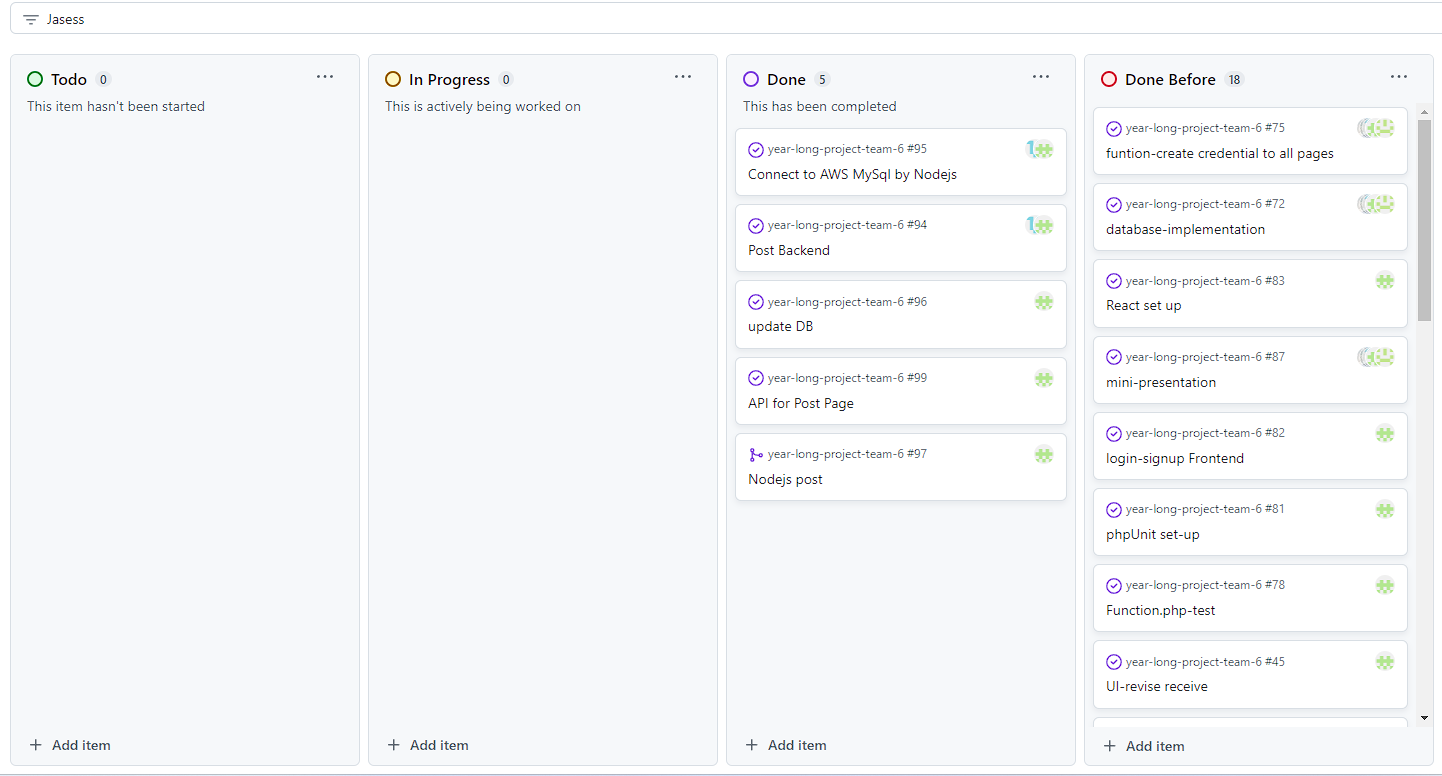
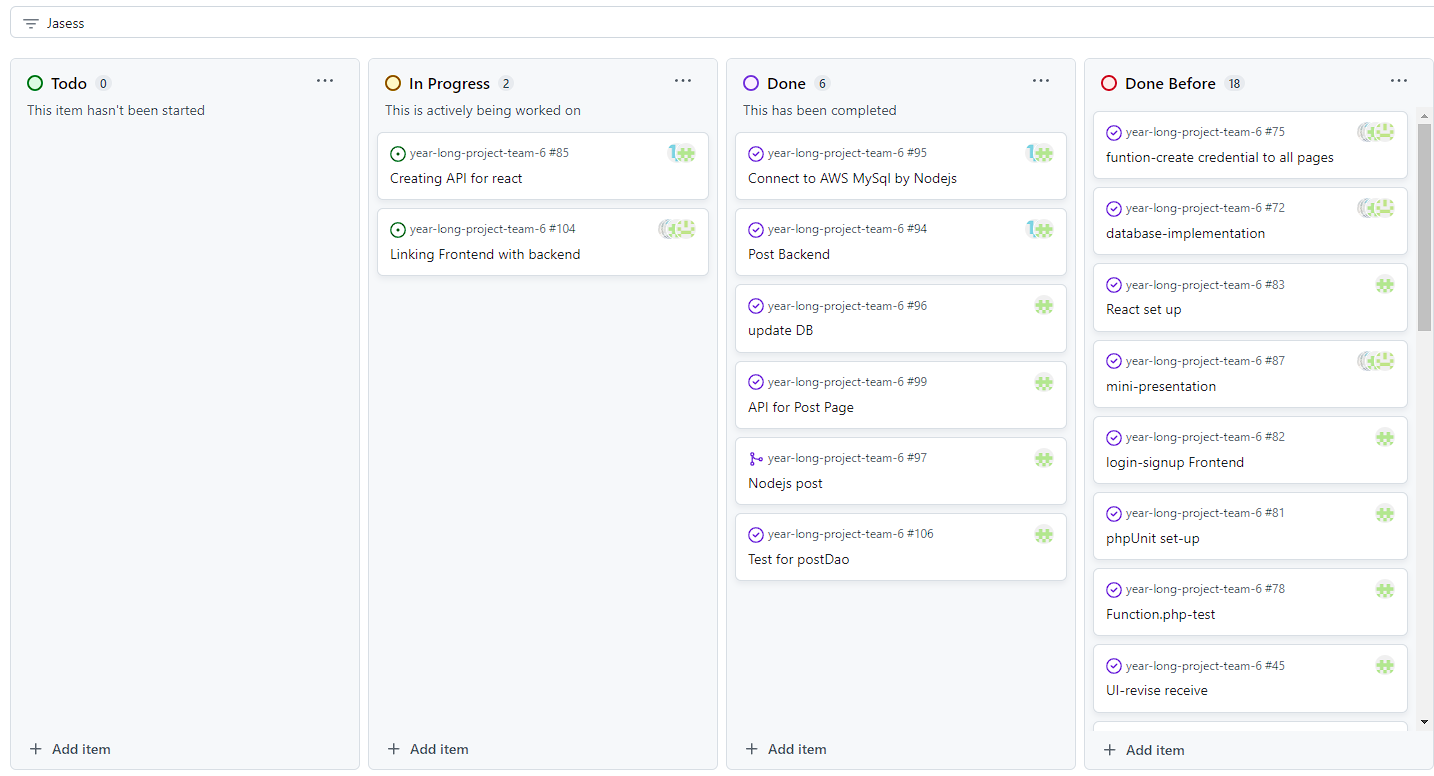
Indiv Logs

diff --git a/docs/weekly logs/Weekly_logs_Yiqi Xu/Individual_Log_Yiqi Xu.md b/docs/weekly logs/Weekly_logs_Yiqi Xu/Individual_Log_Yiqi Xu.md
@@ -204,6 +204,9 @@
 * Connected Database with Nodejs
 * Finished Peer Evaluation
 
+## Test Report for PostDao
+![Test Report](w10_img/Test%20Reoport.png)
+
 ## ScreenShot of peer evaluation
 ![Peer Evaluation](w10_img/PeerEval.png)
 
